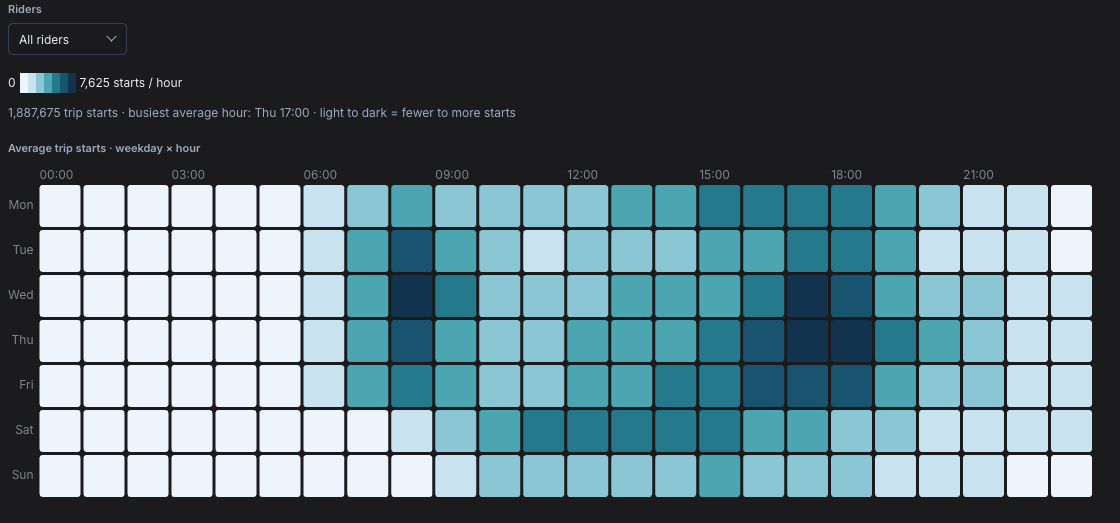
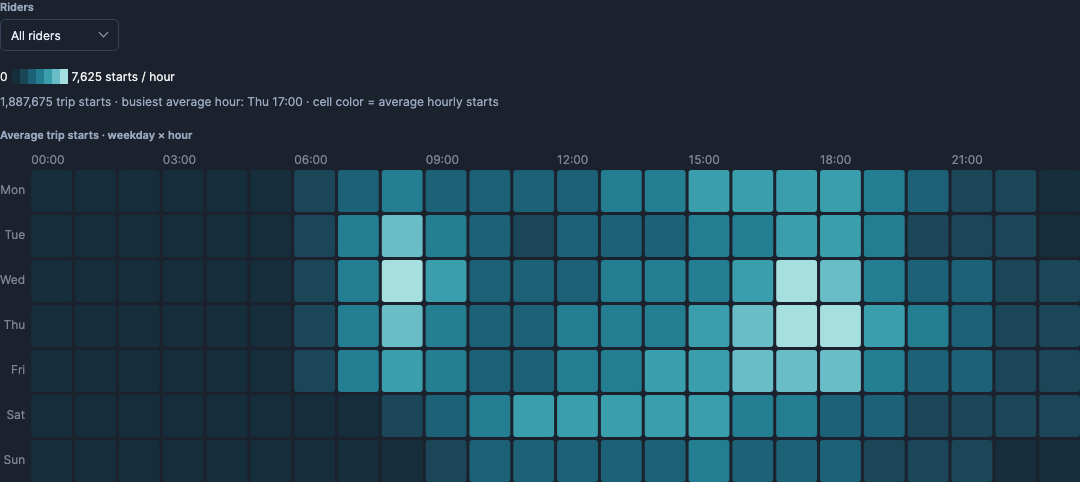
Misc | Gallery: Refresh dark heatmap evidence

diff --git a/README.md b/README.md
@@ -3,3 +3,5 @@
 Captured from gallery branch commit d092296b in a clean checkout on 2026-10-20, with no local core patches.
 
 Includes all 16 new examples in light and dark themes, contact sheets, website gallery views, example-page layout, and development sidebar/search. All PNGs were losslessly optimized and checked for decoded-pixel equality.
+
+Heatmap dark-mode palette and its overview sheet refreshed for f7b5344c. Light/dark/light switching and matching cell/legend colors verified in all six frameworks.
